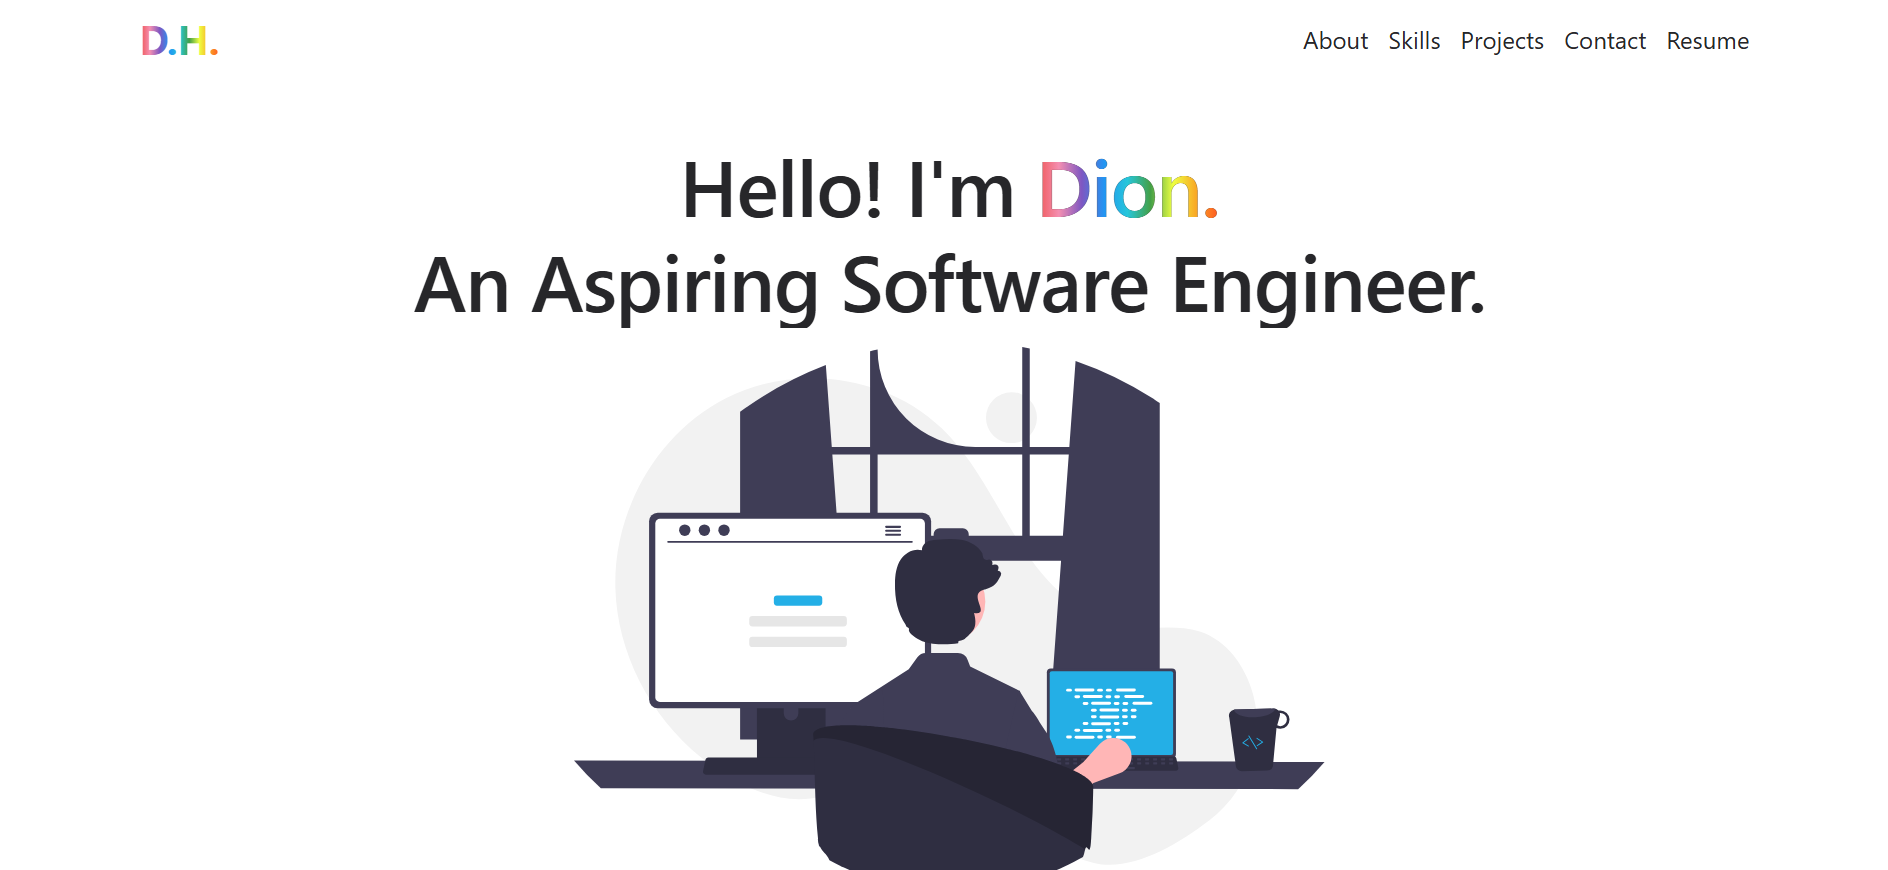
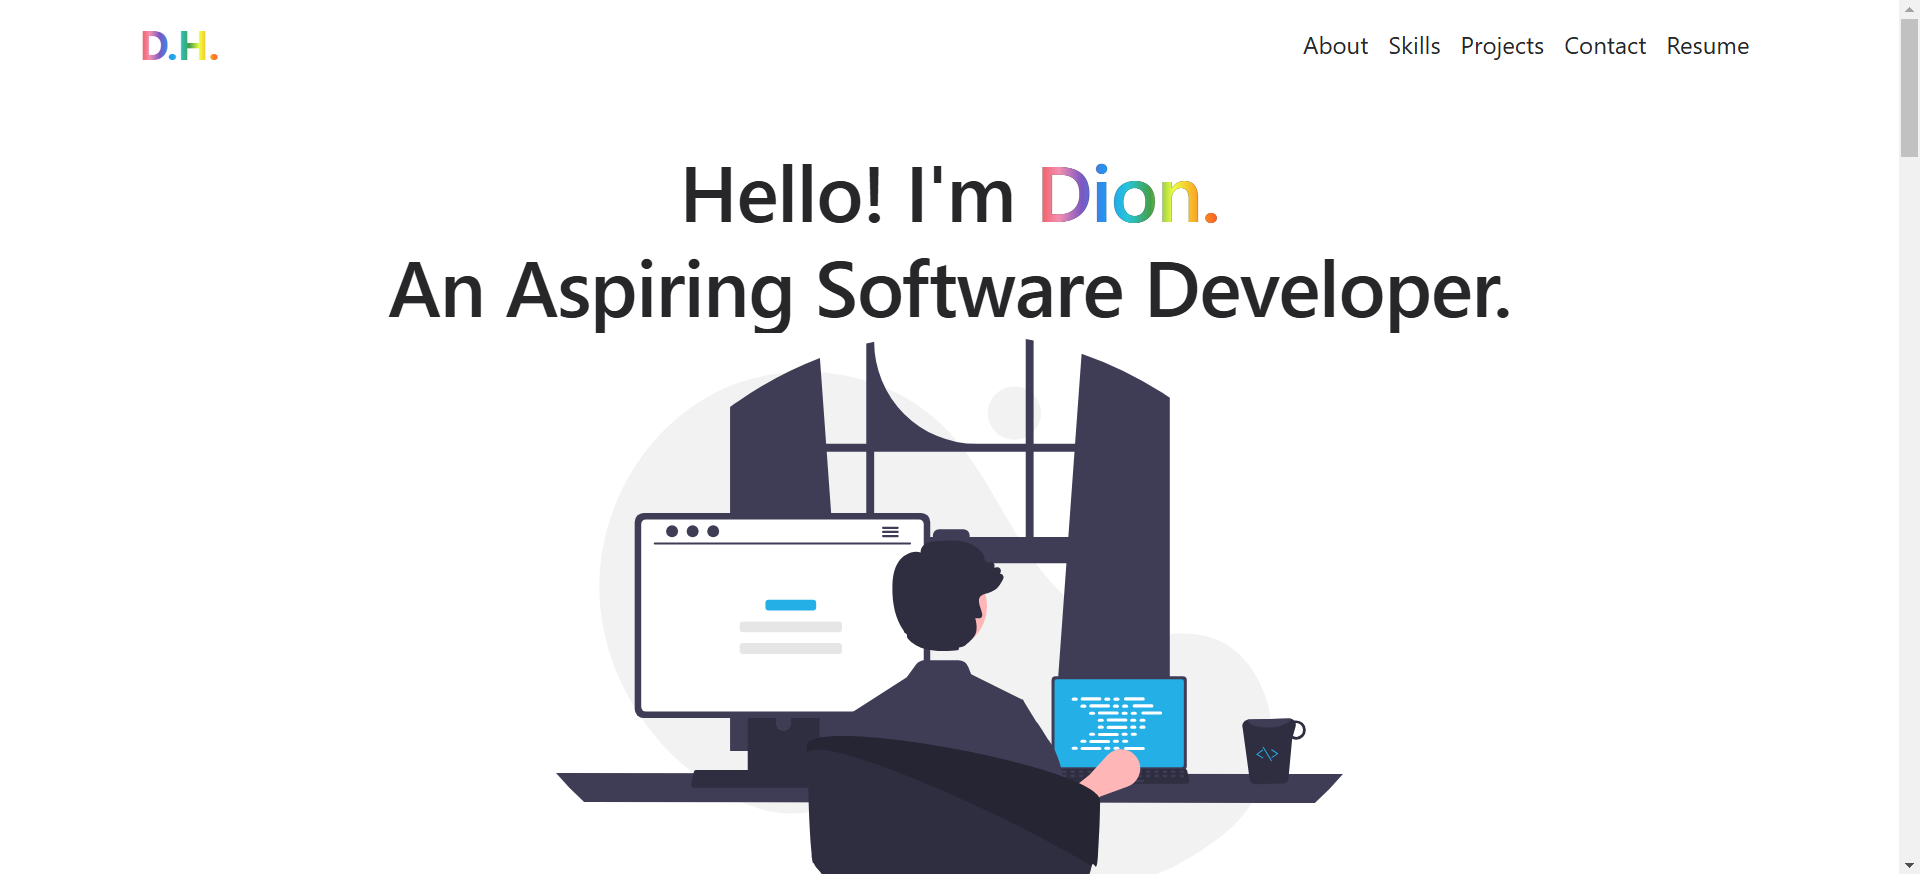
aesthetic changes to intro and README.md
- offloaded most of README.md photos to specific README_images.md file to tidy up main README.md file
- intro.css
-- slightly altered margin-top of custom-intro-img
--  slightly altered margin-top of Intro-content
-- altered font size of div.Intro_content h1 for tablet media queries
-- slightly altered margin-top of custom-intro-img for tablet media queries
-- added specific media queries for nest hub and nest hub max
altered
- deleted unused portfolio image

diff --git a/src/frontend/Intro/Intro.css b/src/frontend/Intro/Intro.css
@@ -4,7 +4,7 @@
 
 .custom-intro-img {
   max-width: 70% !important;
-  margin-top:15px;
+  margin-top:8px;
 }
 
 .Intro_content {
@@ -14,7 +14,7 @@
   height: 100vh; 
   margin: 0; 
   padding: 0; 
-  margin-top: 5%;
+  margin-top: 4.5%;
   letter-spacing: -1px;
 }
 
@@ -64,7 +64,8 @@ div.Intro_content h1 {
   }
 
   .custom-intro-img {
-    max-width: 100% !important; /* May need to adjust for reponsiveness */
+    max-width: 100% !important; /* May need to adjust for reponsiveness b/c image 
+    struggles to compress on very small screens */
     margin-top:15px;
   }
 }
@@ -73,7 +74,41 @@ div.Intro_content h1 {
 @media (min-width: 768px) and (max-width: 1440px) {
 
   div.Intro_content h1 {
-    font-size: 8vh;
+    font-size: 7vh;
   }
 
+  
+  .Intro_content {
+    margin-top:15%;
+  }
+
+  .custom-intro-img {
+    max-width: 100% !important;  /* May need to adjust for reponsiveness b/c image 
+    struggles to compress on very small screens */
+  }
+
+}
+
+/* Specifically Nest Hubs */
+/* Nest Hub Max*/
+@media (device-width: 1280px) and (device-height: 800px) { 
+  .Intro_content {
+    margin-top: 4%;
+  }
+
+  .custom-intro-img {
+    max-width: 70% !important;  /* May need to adjust for reponsiveness b/c image 
+    struggles to compress on very small screens */
+  }
+}
+/* Nest Hub*/
+@media (device-width: 1024px) and (device-height: 600px) { 
+  .Intro_content {
+    margin-top: 4%;
+  }
+
+  .custom-intro-img {
+    max-width: 70% !important;  /* May need to adjust for reponsiveness b/c image 
+    struggles to compress on very small screens */
+  }
 }

diff --git a/README.md b/README.md
@@ -18,44 +18,21 @@
 ![HTML5](https://img.shields.io/badge/html5-%23E34F26.svg?style=for-the-badge&logo=html5&logoColor=white) 
 
 ## 📷 Photos
-### Desktop View
-#### Intro
+### Intro
 ![Intro](public/Pictures/dh_website_v2_intro.png)
-#### About
+### About
 ![About](public/Pictures/dh_website_v2_about.png)
-#### Skills
+### Skills
 ![Skills](public/Pictures/dh_website_v2_skills.png)
-#### Projects
+### Projects
 ![Projects](public/Pictures/dh_website_v2_projects.png)
-##### StackTrack
-![StackTrack](public/Pictures/dh_website_v2_projects_stacktrack.png)
-##### DCC
-![DCC](public/Pictures/dh_website_v2_projects_dcc.png)
-##### BookIt
-![BookIt](public/Pictures/dh_website_v2_projects_bookit.png)
-#### Contact
+### Contact
 ![Contact](public/Pictures/dh_website_v2_contact.png)
-#### Footer
+### Footer
 ![Footer](public/Pictures/dh_website_v2_footer.png)
-### Mobile View
-#### Intro
-![Mobile Intro](public/Pictures/dh_website_v2_mobile_intro.png)
-#### About
-![Mobile About](public/Pictures/dh_website_v2_mobile_about.png)
-#### Skills
-![Mobile Skills](public/Pictures/dh_website_v2_mobile_skills.png)
-#### Projects
-![Mobile Projects](public/Pictures/dh_website_v2_mobile_projects.png)
-##### StackTrack
-![Mobile StackTrack](public/Pictures/dh_website_v2_mobile_projects_stacktrack.png)
-##### DCC
-![Mobile DCC](public/Pictures/dh_website_v2_mobile_projects_dcc.png)
-##### BookIt
-![Mobile BookIt](public/Pictures/dh_website_v2_mobile_projects_bookit.png)
-#### Contact
-![Mobile Contact](public/Pictures/dh_website_v2_mobile_contact.png)
-#### Footer
-![Mobile Footer](public/Pictures/dh_website_v2_mobile_footer.png)
+
+### [More photos...](README_images.md)
+
 ## 🛠 Installation & Set Up
 1. Clone the Repo
     ```sh

diff --git a/README_images.md b/README_images.md
@@ -1,0 +1,39 @@
+## 📷 Photos
+### Desktop View
+#### Intro
+![Intro](public/Pictures/dh_website_v2_intro.png)
+#### About
+![About](public/Pictures/dh_website_v2_about.png)
+#### Skills
+![Skills](public/Pictures/dh_website_v2_skills.png)
+#### Projects
+![Projects](public/Pictures/dh_website_v2_projects.png)
+##### StackTrack
+![StackTrack](public/Pictures/dh_website_v2_projects_stacktrack.png)
+##### DCC
+![DCC](public/Pictures/dh_website_v2_projects_dcc.png)
+##### BookIt
+![BookIt](public/Pictures/dh_website_v2_projects_bookit.png)
+#### Contact
+![Contact](public/Pictures/dh_website_v2_contact.png)
+#### Footer
+![Footer](public/Pictures/dh_website_v2_footer.png)
+### Mobile View
+#### Intro
+![Mobile Intro](public/Pictures/dh_website_v2_mobile_intro.png)
+#### About
+![Mobile About](public/Pictures/dh_website_v2_mobile_about.png)
+#### Skills
+![Mobile Skills](public/Pictures/dh_website_v2_mobile_skills.png)
+#### Projects
+![Mobile Projects](public/Pictures/dh_website_v2_mobile_projects.png)
+##### StackTrack
+![Mobile StackTrack](public/Pictures/dh_website_v2_mobile_projects_stacktrack.png)
+##### DCC
+![Mobile DCC](public/Pictures/dh_website_v2_mobile_projects_dcc.png)
+##### BookIt
+![Mobile BookIt](public/Pictures/dh_website_v2_mobile_projects_bookit.png)
+#### Contact
+![Mobile Contact](public/Pictures/dh_website_v2_mobile_contact.png)
+#### Footer
+![Mobile Footer](public/Pictures/dh_website_v2_mobile_footer.png)
